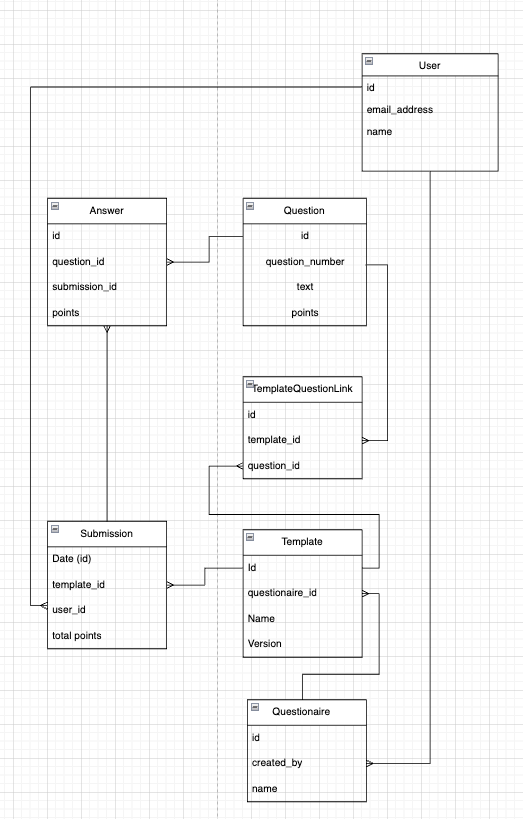
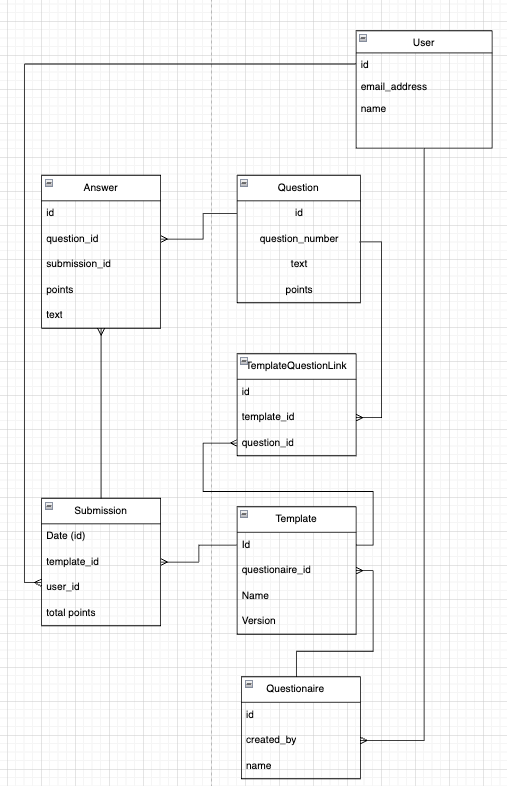
create answer implementation + tests

diff --git a/tests/LifeTrackerTests/AnswerTests.cs b/tests/LifeTrackerTests/AnswerTests.cs
@@ -1,0 +1,165 @@
+using NUnit.Framework;
+using LifeTracker.Services;
+using LifeTracker.Data;
+using LifeTracker.Dto;
+
+using Moq;
+using NUnit.Framework.Internal;
+using Microsoft.EntityFrameworkCore;
+using Microsoft.Extensions.Logging;
+using LifeTracker.Models;
+using Microsoft.Data.Sqlite;
+
+namespace LifeTracker.Tests.Services
+{
+    [TestFixture]
+    public class AnswerTests
+    {
+        private SqliteConnection? _connection;
+        private IQuestionnaireService? _questionnaireService;
+        private ITemplateService? _templateService;
+        private ISubmissionService? _submissionService;
+        private IQuestionService? _questionService;
+        private IAnswerService? _answerService;
+
+        private LifeTrackerContext? _context;
+        private ILogger<EFQuestionnaireService>? _questionnaireLogger;
+        private ILogger<EFTemplateService>? _templateLogger;
+        private ILogger<EFSubmissionService>? _submissionLogger;
+        private ILogger<EFQuestionService>? _questionLogger;
+        private ILogger<EFAnswerService>? _answerLogger;
+
+        // Helper functions
+        private async Task<Questionnaire> CreateTestQuestionnaire(string name = "Test Questionnaire", string createdBy = "UnitTester")
+        {
+            var dto = new CreateQuestionnaireDto { Name = name, CreatedBy = createdBy };
+            return await _questionnaireService.CreateAsync(dto);
+        }
+
+        private async Task<Template> CreateTestTemplate(int questionnaireId, string name = "Test Template")
+        {
+            var dto = new CreateTemplateDto { Name = name, QuestionnaireId = questionnaireId };
+            return await _templateService!.CreateAsync(dto);
+        }
+
+        private async Task<Question> CreateTestQuestion(int templateId, string text = "test question")
+        {
+            var dto = new CreateQuestionDto { Text = text, TemplateId = templateId };
+            return await _questionService!.CreateAsync(dto);
+        }
+
+        private async Task<Submission> CreateTestSubmission(int templateId, string createdBy = "UnitTester")
+        {
+            var dto = new CreateSubmissionDto { TemplateId = templateId, CreatedBy = createdBy };
+            return await _submissionService!.CreateAsync(dto);
+        }
+
+        private async Task<Answer> CreateTestAnswer(CreateAnswerDto dto)
+        {
+            return await _answerService!.CreateAsync(dto);
+        }
+
+        [SetUp]
+        public void Setup()
+        {
+            _connection = new SqliteConnection("DataSource=:memory:");
+            _connection.Open();
+
+            var options = new DbContextOptionsBuilder<LifeTrackerContext>()
+                .UseSqlite(_connection)
+                .Options;
+            _context = new LifeTrackerContext(options);
+
+            _context.Database.EnsureDeleted();
+            _context.Database.EnsureCreated();
+
+            _questionnaireLogger = new Mock<ILogger<EFQuestionnaireService>>().Object;
+            _templateLogger = new Mock<ILogger<EFTemplateService>>().Object;
+            _questionLogger = new Mock<ILogger<EFQuestionService>>().Object;
+            _submissionLogger = new Mock<ILogger<EFSubmissionService>>().Object;
+            _answerLogger = new Mock<ILogger<EFAnswerService>>().Object;
+
+            _questionnaireService = new EFQuestionnaireService(_context, _questionnaireLogger);
+            _templateService = new EFTemplateService(_context, _templateLogger);
+            _questionService = new EFQuestionService(_context, _questionLogger);
+            _submissionService = new EFSubmissionService(_context, _submissionLogger);
+            _answerService = new EFAnswerService(_context, _answerLogger);
+        }
+
+        [TearDown]
+        public void TearDown()
+        {
+            _context.Dispose();
+            _connection.Close();
+        }
+
+        [Test]
+        public async Task CreateAsync_ShouldAddAnswerToDb()
+        {
+            Questionnaire questionnaire = await CreateTestQuestionnaire();
+
+            Template template = await CreateTestTemplate(questionnaire.Id);
+
+            Question question = await CreateTestQuestion(template.Id);
+
+            Submission submission = await CreateTestSubmission(template.Id);
+
+            CreateAnswerDto createAnswerDto = new CreateAnswerDto
+            {
+                QuestionId = question.Id,
+                SubmissionId = submission.Id,
+                Text = "My Answer",
+                Points = 1
+            };
+
+            Answer answer = await CreateTestAnswer(createAnswerDto);
+
+            Assert.That(answer, Is.Not.Null);
+
+            Assert.That(createAnswerDto.SubmissionId, Is.EqualTo(answer.SubmissionId));
+            Assert.That(createAnswerDto.QuestionId, Is.EqualTo(answer.QuestionId));
+            Assert.That(createAnswerDto.Text, Is.EqualTo(answer.Text));
+            Assert.That(createAnswerDto.Points, Is.EqualTo(answer.Points));
+        }
+
+        // [Test]
+        // public async Task GetByUserAsync_ShouldGetOnlySubmissionAnswers()
+        // {
+        //     Questionnaire questionnaire = await CreateTestQuestionnaire();
+
+        //     Template template = await CreateTestTemplate(questionnaire.Id);
+
+        //     string CreatedBy0 = "UnitTester";
+        //     string CreatedBy1 = "NonUnitTester";
+
+        //     await CreateTestAnswer(template.Id, CreatedBy0);
+        //     await CreateTestAnswer(template.Id, CreatedBy0);
+        //     await CreateTestAnswer(template.Id, CreatedBy1);
+
+        //     List<Answer> answersInDb = await _answerService.GetByUserAsync(CreatedBy0);
+
+        //     Assert.That(answersInDb, Has.Exactly(2).Items);
+        // }
+
+        // [Test]
+        // public async Task DeleteAsync_ShouldDeleteAnswerToDb()
+        // {
+        //     Questionnaire questionnaire = await CreateTestQuestionnaire();
+
+        //     Template template = await CreateTestTemplate(questionnaire.Id);
+
+        //     CreateAnswerDto createAnswerDto = new CreateAnswerDto
+        //     {
+        //         TemplateId = template.Id
+        //     };
+
+        //     Answer answer = await CreateTestAnswer(template.Id);
+
+        //     await _answerService.DeleteAsync(answer.Id);
+
+        //     Answer answerInDb = await _context.Answer.FindAsync(answer.Id);
+
+        //     Assert.That(answerInDb, Is.Null);
+        // }
+    }
+}

diff --git a/src/LifeTracker/Services/Answer/EFAnswerService.cs b/src/LifeTracker/Services/Answer/EFAnswerService.cs
@@ -1,0 +1,127 @@
+using LifeTracker.Data;
+using LifeTracker.Dto;
+using LifeTracker.Models;
+using Microsoft.EntityFrameworkCore;
+
+namespace LifeTracker.Services;
+
+public class EFAnswerService : IAnswerService
+{
+    private readonly LifeTrackerContext _lifeTrackerContext;
+    private readonly ILogger<EFAnswerService> _logger;
+
+    public EFAnswerService(LifeTrackerContext context, ILogger<EFAnswerService> logger)
+    {
+        _lifeTrackerContext = context;
+        _logger = logger;
+    }
+
+    // public async Task<List<Answer>> GetBySubmissionAsync(int templateId)
+    // {
+    //     return await _lifeTrackerContext.Template
+    //             .Where(t => t.Id == templateId)
+    //             .Include(t => t.TemplateAnswerLinks)
+    //             .ThenInclude(tql => tql.Answer)
+    //             .SelectMany(t => t.TemplateAnswerLinks.Select(tql => tql.Answer))
+    //             .ToListAsync();
+    // }
+
+    public async Task<Answer?> GetAsync(int answerId)
+    {
+        return await _lifeTrackerContext.Answer.FindAsync(answerId);
+    }
+
+    public async Task<Answer?> CreateAsync(CreateAnswerDto createAnswerDto)
+    {
+        // find the Submission and the Question
+        Submission? submission = await _lifeTrackerContext.Submission.FindAsync(createAnswerDto.SubmissionId);
+        if (submission == null)
+        {
+            _logger.LogError("No Submission of id {submissionId}", createAnswerDto.SubmissionId);
+            return null;
+        }
+
+        Question? question = await _lifeTrackerContext.Question.FindAsync(createAnswerDto.QuestionId);
+        if (question == null)
+        {
+            _logger.LogError("No Question of id {questionId}", createAnswerDto.QuestionId);
+            return null;
+        }
+
+        Answer newAnswer = new Answer
+        {
+            QuestionId = createAnswerDto.QuestionId,
+            SubmissionId = createAnswerDto.SubmissionId,
+            Text = createAnswerDto.Text,
+            Points = createAnswerDto.Points,
+        };
+
+        _lifeTrackerContext.Answer.Add(newAnswer);
+        await _lifeTrackerContext.SaveChangesAsync();
+
+        _logger.LogDebug("Created new Answer", newAnswer.ToString());
+
+        return newAnswer;
+    }
+
+    // public async Task<Answer?> UpdateAsync(int id, UpdateAnswerDto updateAnswerDto)
+    // {
+    //     try
+    //     {
+    //         Answer? answer = await _lifeTrackerContext.Answer.FindAsync(id);
+    //         if (answer == null)
+    //         {
+    //             _logger.LogError("Could not find answer of id {answer}", id);
+    //             return null;
+    //         }
+
+    //         answer.Text = updateAnswerDto.Text;
+    //         await _lifeTrackerContext.SaveChangesAsync();
+    //         return answer;
+    //     }
+    //     catch (Exception ex)
+    //     {
+    //         _logger.LogError(ex, "Answer Put exception");
+    //         return null;
+    //     }
+    // }
+
+    // /// <summary>
+    // /// Deletes Answer in its entirety
+    // /// </summary>
+    // /// <param name="answerId"></param>
+    // /// <returns></returns>
+    // public async Task<bool> DeleteAsync(int answerId)
+    // {
+    //     Answer? answer = await _lifeTrackerContext.Answer.FindAsync(answerId);
+    //     if (answer == null)
+    //     {
+    //         _logger.LogWarning("Answer could not be found");
+    //         return false;
+    //     }
+    //     else
+    //     {
+    //         using var transaction = await _lifeTrackerContext.Database.BeginTransactionAsync(System.Data.IsolationLevel.Serializable);
+
+    //         _lifeTrackerContext.Remove(answer);
+
+    //         await _lifeTrackerContext.SaveChangesAsync();
+    //         // remove template from Answer
+    //         int numDeleted = await _lifeTrackerContext.TemplateAnswerLink
+    //             .Where(tql => tql.AnswerId == answer.Id)
+    //             .ExecuteDeleteAsync();
+    //         await transaction.CommitAsync();
+
+    //         if (numDeleted == 0)
+    //         {
+    //             _logger.LogError("No templateAnswerLinks with {id} could be found", answer.Id);
+    //         }
+    //         else
+    //         {
+    //             _logger.LogInformation("Deleted {numDeleted} templateAnswerLinks", numDeleted);
+    //         }
+
+    //         return true;
+    //     }
+    // }
+}

diff --git a/src/LifeTracker/Services/Answer/IAnswerService.cs b/src/LifeTracker/Services/Answer/IAnswerService.cs
@@ -1,0 +1,13 @@
+using LifeTracker.Dto;
+using LifeTracker.Models;
+
+namespace LifeTracker.Services;
+
+public interface IAnswerService
+{
+    // Task<List<Answer>> GetBySubmissionAsync(int submissionId);
+    Task<Answer?> GetAsync(int answerId);
+    Task<Answer> CreateAsync(CreateAnswerDto newAnswer);
+    // Task<Answer?> UpdateAsync(int id, UpdateAnswerDto newAnswer);
+    // Task<bool> DeleteAsync(int answerId);
+}

diff --git a/src/LifeTracker/EntityFramework/Dtos/Answer/CreateAnswerDto.cs b/src/LifeTracker/EntityFramework/Dtos/Answer/CreateAnswerDto.cs
@@ -1,0 +1,9 @@
+namespace LifeTracker.Dto;
+
+public class CreateAnswerDto
+{
+    public required int QuestionId { get; set; }
+    public required int SubmissionId { get; set; }
+    public required string Text { get; set; } = string.Empty;
+    public required int Points { get; set; }
+}

diff --git a/src/LifeTracker/EntityFramework/Dtos/Answer/UpdateAnswerDto.cs b/src/LifeTracker/EntityFramework/Dtos/Answer/UpdateAnswerDto.cs
@@ -1,0 +1,8 @@
+namespace LifeTracker.Dto;
+
+public class UpdateAnswerDto
+{
+    public required string Text { get; set; } = string.Empty;
+
+    public required int Points { get; set; }
+}
